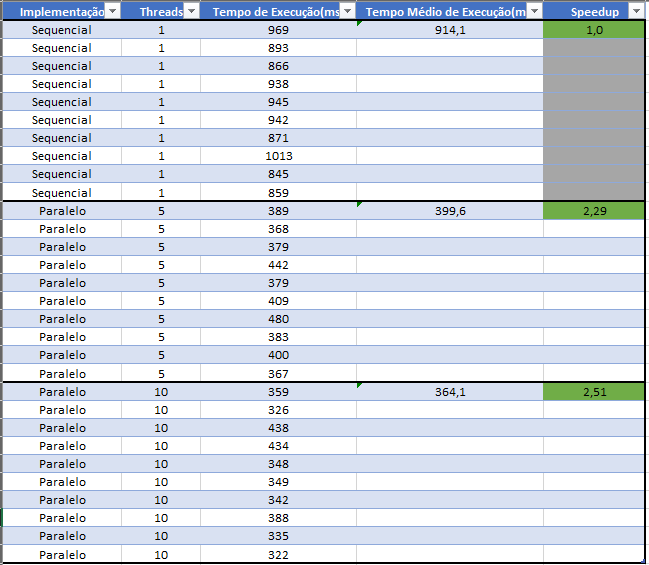
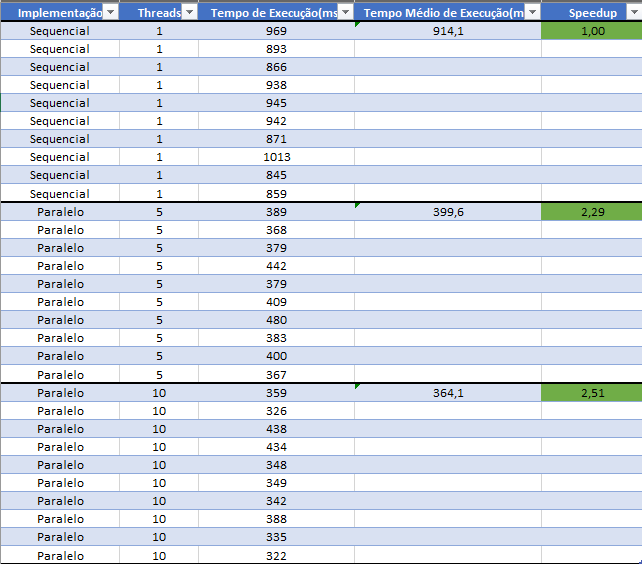
-

Changed region(s): [[0.0, 0.0, 1.0, 1.0]]

diff --git a/README.md b/README.md
@@ -143,6 +143,8 @@ _O **Speedup** é calculado como: (Tempo Sequencial) / (Tempo Paralelo)._
 
 Então:
 
+- 914,1 / 914,1 = 1,00x
+
 - 914,1 / 399,6 = 2,29x
 
 - 914,1 / 364,1 = 2,51x
